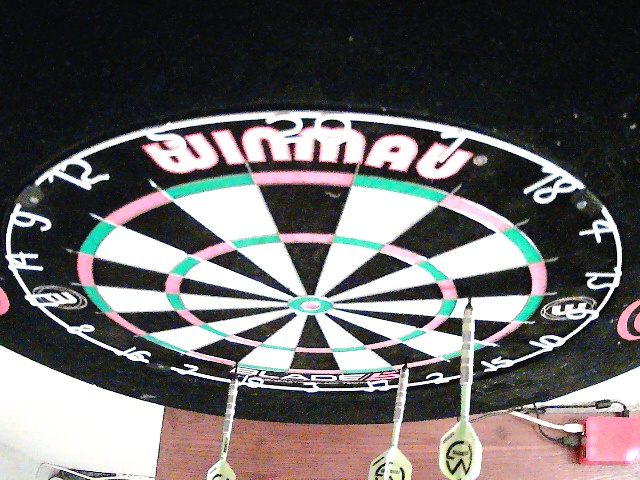
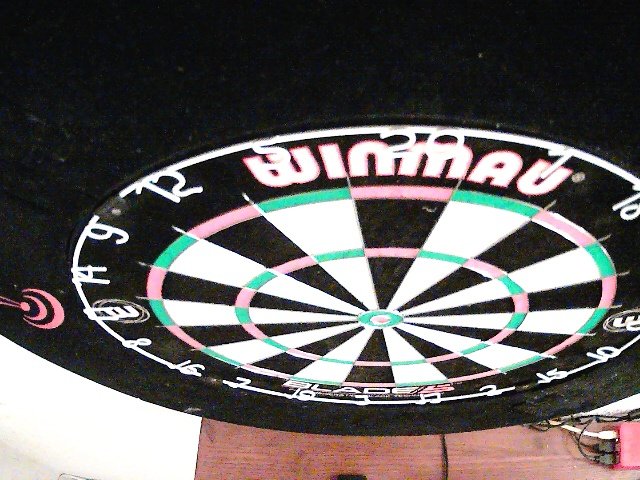
Issue9 Base calibration primarily on triple ellips

diff --git a/src/boardClass.py b/src/boardClass.py
@@ -5,7 +5,7 @@ class Board:
 
     def __init__(self, base_img_path, closest_field = 20):
         self.std_center = [400, 400]
-        self.radius = 340
+        self.radius = 170
         self.base_img_path = base_img_path
         self.closest_field = closest_field
         self.h = self.calibration()
@@ -113,44 +113,52 @@ class Board:
     def get_dest_points(self):
 
         dest_points = np.empty([20,2])
-        radius = 340
         for i in range(20):
             angle = 90 - 180/20 - i * 360 / 20
-            dest_points[i] = np.array(self.pol2cath(radius,angle))
+            dest_points[i] = np.array(self.pol2cath(angle))
 
         print(dest_points)
         
         return dest_points
 
     def get_lines(self, img, rel_center):
-        gray_img_dark = cv2.cvtColor(img, cv2.COLOR_BGR2GRAY)
-        
-        bil = cv2.bilateralFilter(gray_img_dark, 8, 70, 70)
-        edges_high_thresh = cv2.Canny(bil, 80, 130)
-        
-        lines = cv2.HoughLinesP(edges_high_thresh,  1, 1*np.pi/180, 70, minLineLength=150, maxLineGap=250)
 
+        gray_img_dark = cv2.cvtColor(img, cv2.COLOR_BGR2GRAY)
+        bil = cv2.bilateralFilter(gray_img_dark, 8, 70, 70)
+        canny = cv2.Canny(bil, 80, 130)
+        kernel = np.ones((2,2),np.float32)
+        dilation = cv2.dilate(canny,kernel,iterations = 1)
+
+        lines = cv2.HoughLinesP(dilation,  1, 1*np.pi/180, 45, minLineLength=80, maxLineGap=200)
         mask_black = np.zeros_like(img)
 
         # Line Cleaning
         line_list = []
         angles = []
+        min_angle = 3 # min angle between 2 lines
         x_list = []
         y_list = []
         for line in lines:
             x1, y1, x2, y2 = line[0]
             p1 = np.array([x1,y1])
             p2 = np.array([x2,y2])
+            #cv2.line(gray_img_dark,(x1,y1), (x2, y2),0, 3)
 
             dist2center = abs(np.cross(p2-p1,rel_center-p1)/np.linalg.norm(p2-p1))
             
-            if dist2center < 10:
+            if dist2center < 2:
                 angle = np.rad2deg(np.arctan((y2-y1)/(x2-x1)))
-                angle = round(angle/3)*3
                 
-                if angle not in angles:
-                    angles.append(angle)    
+                if angles == []:
+                    angles.append(angle)
                     line_list.append(line)
+                else:
+                    diff_angles = np.abs(angles - angle)
+                    smallest_diff = min(diff_angles)
+
+                    if smallest_diff > min_angle:
+                        angles.append(angle)    
+                        line_list.append(line)
 
         if len(line_list) == 10:
             #Sort after angle
@@ -159,46 +167,58 @@ class Board:
         else:
             return None
 
-    def board_filter(self, img):
+    def get_ellipses(self, img):
 
-            #Thresholds
-            low_green = np.array([25, 35, 72])
-            high_green = np.array([102, 255, 255])
-            low_red = np.array([150, 15, 230])#np.array([161, 155, 84])
-            high_red = np.array([175, 255, 255])#np.array([179, 255, 255])
+        hsv_frame = cv2.cvtColor(img, cv2.COLOR_BGR2HSV)
 
-            #Filter
-            hsv_frame = cv2.cvtColor(img, cv2.COLOR_BGR2HSV)
+        # create white image
+        img_white = np.zeros_like(img)
+        img_white.fill(255)
 
-            green_mask = cv2.inRange(hsv_frame, low_green, high_green)
-            green = cv2.bitwise_and(img, img, mask=green_mask)
-            red_mask = cv2.inRange(hsv_frame, low_red, high_red)
-            red = cv2.bitwise_and(img, img, mask=red_mask)
-            masked_image = cv2.add(red,green)
+        #Thresholds
+        low_green = np.array([31, 60, 120])
+        high_green = np.array([95, 255, 255])
+        green_mask = cv2.inRange(hsv_frame, low_green, high_green)
+        green = cv2.bitwise_and(img_white, img_white, mask=green_mask)
+        
+        # Range for lower red
+        low_red = np.array([0, 15, 220])#np.array([161, 155, 84])
+        high_red = np.array([12,190, 255])#np.array([179, 255, 255])
+        mask1 = cv2.inRange(hsv_frame, low_red, high_red)
 
-            return masked_image 
+        # Range for upper red
+        low_red = np.array([150, 15, 220])#np.array([161, 155, 84])
+        high_red = np.array([180, 190, 255])#np.array([179, 255, 255])
+        mask2 = cv2.inRange(hsv_frame, low_red, high_red)
 
-    def get_ellipses(self, base_img):
+        red_mask = mask1 + mask2
+        red = cv2.bitwise_and(img_white, img_white, mask=red_mask)
+        masked_img = cv2.add(red,green)   
 
-        im1 = self.board_filter(base_img)
-        gray_img_dark = cv2.cvtColor(im1,cv2.COLOR_BGR2GRAY)
+        gray_img_dark = cv2.cvtColor(masked_img,cv2.COLOR_BGR2GRAY)
 
-        _, gray_img_dark = cv2.threshold(gray_img_dark, 150, 255, cv2.THRESH_BINARY)
-        gray_img_dark = cv2.bilateralFilter(gray_img_dark, 8, 100, 100)
+        _, thresh = cv2.threshold(gray_img_dark, 150, 255, cv2.THRESH_BINARY)
+        thresh = cv2.bilateralFilter(thresh, 8, 100, 100)
 
-        contours,_ = cv2.findContours(gray_img_dark, cv2.RETR_TREE, cv2.CHAIN_APPROX_NONE)
+        contours, _ = cv2.findContours(thresh, cv2.RETR_LIST, cv2.CHAIN_APPROX_NONE)
         cntsSorted = sorted(contours, key=cv2.contourArea, reverse=True)
-        img_cnts = cv2.drawContours(im1, cntsSorted, -1, (255,255,255), 2)
 
         # Ellipse Cleaning
         ellipses = []
         if len(cntsSorted) > 10:
             cntsSorted = cntsSorted[:10]
         for cnt in cntsSorted:
-            ellipse = cv2.fitEllipse(cnt)
-            
+            center, [width, height], angle = cv2.fitEllipse(cnt)
+            width = width - 3
+            height = height - 3
+            ellipse = center, [width, height], angle
+
             if cv2.pointPolygonTest(cntsSorted[0],(ellipse[0][0],ellipse[0][1]),False) >= 0:
-                #make sure that all other ellipses are inside the big one
-                ellipses.append(ellipse)   
+                ellipses.append(ellipse)
+
+        # get smallest and third smallest ellipses
+        sizes = [x[1][0] * x[1][1] for x in ellipses]
+        index = np.argsort(sizes)
+        ellipses = [ellipses[index[0]], ellipses[index[2]]]
         
         return ellipses

diff --git a/src/cameraClass.py b/src/cameraClass.py
@@ -14,15 +14,19 @@ class Camera:
         
     def __init__(self, src = 0, width = 640, height = 480, rot = 0):
 
-        self.cap = VideoStream(src = src, width = width, height = height, rot = rot).start()
+        self.cap = VideoStream(src = src, width = width, height = height, rot = rot)
+        self.cap.start()
+        time.sleep(1)
         img = self.cap.read()
+        self.cap.stop()
         path = 'static/jpg/base_img' + str(src) + '.jpg'
         cv2.imwrite(path, img)
         self.board = Board(path, 20)
         self.dartThrow = None
 
     def dart_motion_dect(self):
-
+        
+        self.cap.start()
         print('Waiting for motion')
         
         #Parameters

diff --git a/src/videoCapture.py b/src/videoCapture.py
@@ -1,6 +1,7 @@
 
 # import the necessary packages
 from threading import Thread
+import concurrent.futures
 import cv2
 
 rotations = [None, cv2.ROTATE_90_CLOCKWISE, cv2.ROTATE_180, cv2.ROTATE_90_COUNTERCLOCKWISE]
@@ -22,8 +23,9 @@ class VideoStream:
 
     def start(self):
         # start the thread to read frames from the video stream
+        #with concurrent.futures.ThreadPoolExecutor() as executor:
+            #executor.submit(self.update)
         Thread(target=self.update, args=()).start()
-        return self
 
     def update(self):
         # keep looping infinitely until the thread is stopped

diff --git a/app.py b/app.py
@@ -6,7 +6,7 @@ import src.cameraClass as camCls
 
 app = Flask(__name__)
 
-camera = camCls.Camera(src=0, rot=180)
+camera = camCls.Camera(src=2, rot=180)
 
 @app.route('/')
 def index():
